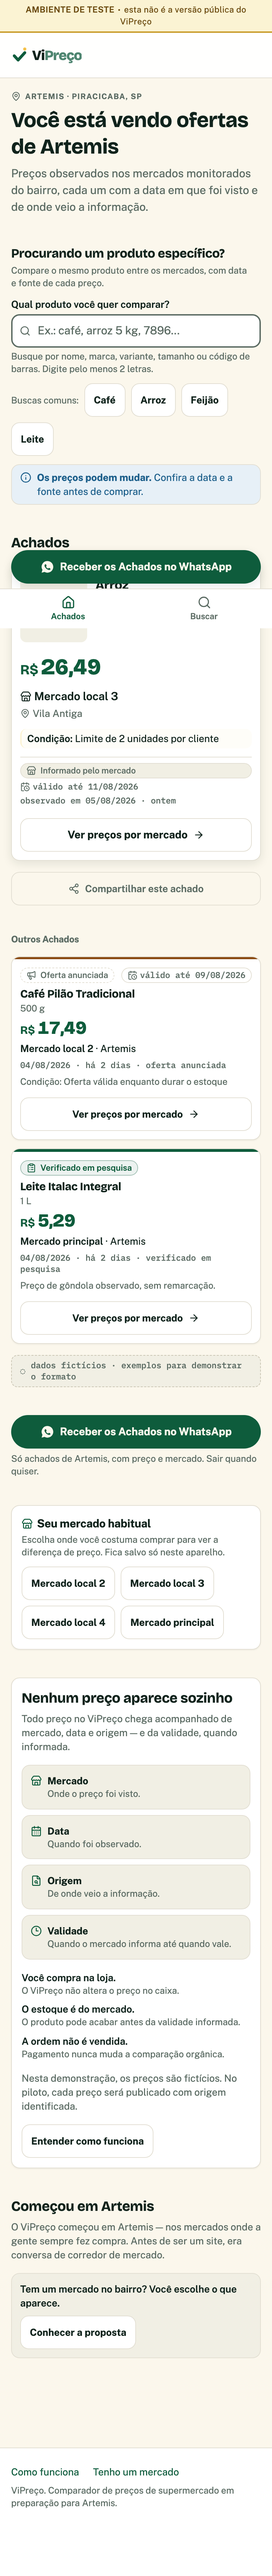
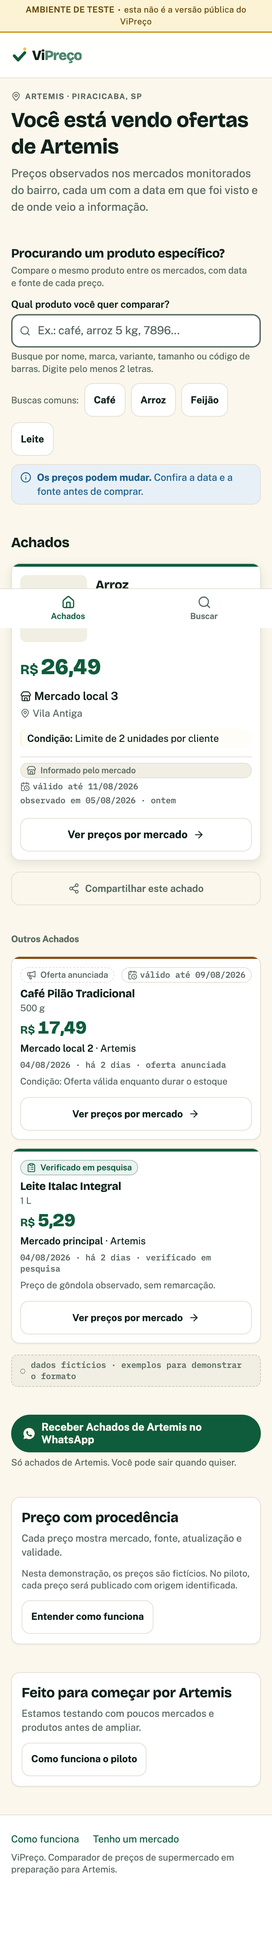
docs(r3.3a): regenera as sete capturas da Home do head de R3.3A
As três que o mandato nomeia — 390, states e comparison-board — e as
quatro restantes junto, porque todas são capturas da MESMA Home: deixar
320, 430, desktop e list mostrando o CTA fixo e o seletor de mercado
habitual seria publicar evidência falsa ao lado de evidência correta.

Medido em cinco larguras (320, 360, 390, 430, 1280): zero estouro
horizontal, 2 abas na barra e 2 no cabeçalho, 1 h1, zero controle abaixo
de 48 px, zero histórico de preço e **exatamente 1 CTA de WhatsApp** — a
contagem que prova, no DOM, que o fixo saiu e o inline ficou.

`states` e `comparison-board` saíram com duas capturas consecutivas byte
a byte idênticas. O painel mediu 4 abas no "antes" (origin/main, servido
ao vivo num worktree efêmero) contra 2 no "depois", e 1 par de landmarks
com nome repetido no antes contra 0 no depois.

O painel 4 de `states` deixou de repetir a mensagem do painel 2 e passou
a mostrar a copy própria de "sem ofertas vigentes", com a saída
"Buscar produto" — a divergência que ele mesmo registrava, agora fechada.

O README novo registra o limite da reprodutibilidade: `VITE_WHATSAPP_NUMBER`
é o que separa a Home do Gate da Home de um build sem a variável.

Changed region(s): [[0.0, 0.0, 1.0, 0.9688]]

diff --git a/docs/evidence/visual/r33/README.md b/docs/evidence/visual/r33/README.md
@@ -1,0 +1,62 @@
+# Evidência visual de R3.3 / R3.3A — Home e Achados
+
+Sete arquivos, todos gerados do head da branch `feat/r33-home-achados`, no mesmo navegador e com
+animação congelada. Os scripts que os produzem estão em `scripts/visual/`.
+
+| Arquivo                             | O que é                                                        | Script                       |
+| ----------------------------------- | -------------------------------------------------------------- | ---------------------------- |
+| `home-achados-320.png`              | página inteira a 320 px                                        | `screenshot-home.ts`         |
+| `home-achados-390.png`              | página inteira a 390 px — o celular comum                      | `screenshot-home.ts`         |
+| `home-achados-430.png`              | página inteira a 430 px — celular grande                       | `screenshot-home.ts`         |
+| `home-achados-desktop.png`          | página inteira a 1280 px                                       | `screenshot-home.ts`         |
+| `home-achados-list-390.png`         | recorte da seção de Achados a 390 px                           | `screenshot-home.ts`         |
+| `home-achados-states.png`           | os sete estados da seção de Achados, lado a lado               | `screenshot-home-estados.ts` |
+| `home-achados-comparison-board.png` | Home anterior · North Star V2 · Home entregue, com as decisões | `comparison-board-home.ts`   |
+
+## Reprodutibilidade — o que é garantido, e o que não é
+
+**Garantido dentro de uma execução.** `states` e `comparison-board` capturam **duas vezes** e
+falham se os dois PNGs não forem byte a byte idênticos. Os dois congelam animação; o laboratório
+de estados congela também o relógio (`AGORA` fixo), senão "ontem" e "há 2 dias" mudariam de texto
+conforme a hora em que o script rodasse.
+
+**Não garantido entre ambientes**, e o motivo tem nome: `VITE_WHATSAPP_NUMBER`. O CTA de WhatsApp
+**falha fechado** — sem a variável, o bloco inteiro não é renderizado, e a página sai centenas de
+pixels mais curta do que a que o entrevistado vê em staging, que define a variável como _secret_
+do Environment.
+
+Foi exatamente o que aconteceu em 06/08/2026: uma recaptura sem a variável produziu 6946 px onde
+a evidência publicada tinha 7380, com hash diferente — o que se lê como "a evidência envelheceu"
+quando na verdade é "o ambiente mudou". `screenshot-home.ts` passou a **avisar** quando o CTA não
+está na página.
+
+**Para reproduzir estas capturas**, defina `VITE_WHATSAPP_NUMBER` no `.env` antes de subir o
+servidor. Qualquer número em formato E.164 serve: ele vive **só no `href`** e nunca aparece na
+tela, então não muda um pixel do PNG. Não use, nem peça, o número real do piloto — ele não é
+necessário aqui, e a evidência não é lugar de dado de contato.
+
+## Como o "antes" do painel comparativo é produzido
+
+A coluna 1 **não é uma captura antiga guardada em disco**: é a Home de `origin/main` servida por
+um segundo `vite dev`, num worktree efêmero, fotografada no mesmo navegador e no mesmo instante
+que a Home entregue. Sem isso, metade do que o painel mostrasse como mudança de R3.3 seria
+diferença de fonte, de versão de navegador ou de data de fixture.
+
+```bash
+git worktree add --detach /tmp/antes origin/main
+ln -s "$PWD/node_modules" /tmp/antes/node_modules
+cp .env /tmp/antes/.env
+(cd /tmp/antes && bunx vite dev --port 8081 --strictPort) &
+bun run dev &
+bun scripts/visual/comparison-board-home.ts
+```
+
+O script **reprova** se o "antes" não tiver 4 abas ou o "depois" não tiver 2 — servidor errado, ou
+worktree fora de `origin/main`, faria o painel afirmar uma mudança que não aconteceu.
+
+## Uma nota sobre a barra de navegação nas capturas de página inteira
+
+A barra inferior é `position: fixed`. Numa captura de página inteira ela aparece **uma vez, na
+altura do viewport**, sobreposta ao conteúdo daquele ponto — é artefato da captura, não da
+página. Ele existe igualmente nas capturas anteriores a R3.3A, e o comportamento real está nas
+medições de `screenshot-home.ts`, que contam as abas no DOM em cinco larguras.
